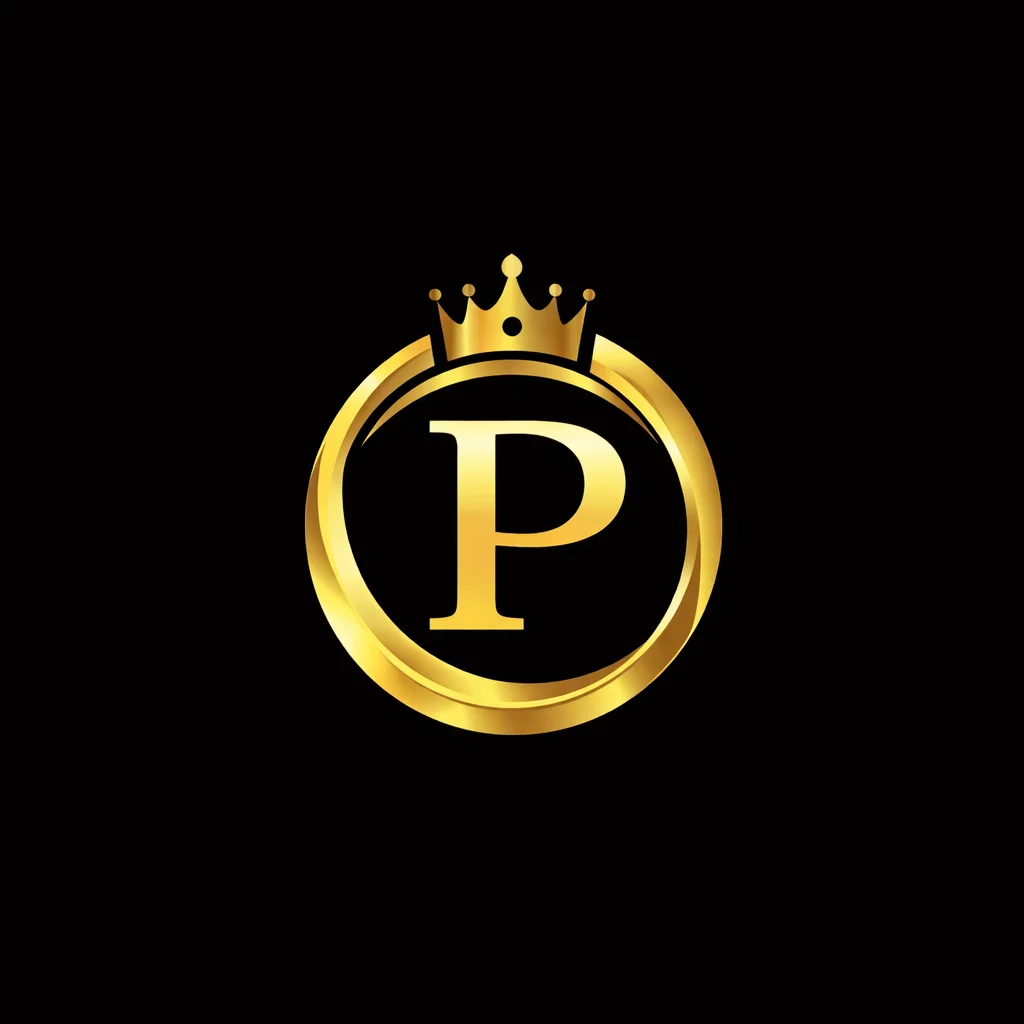
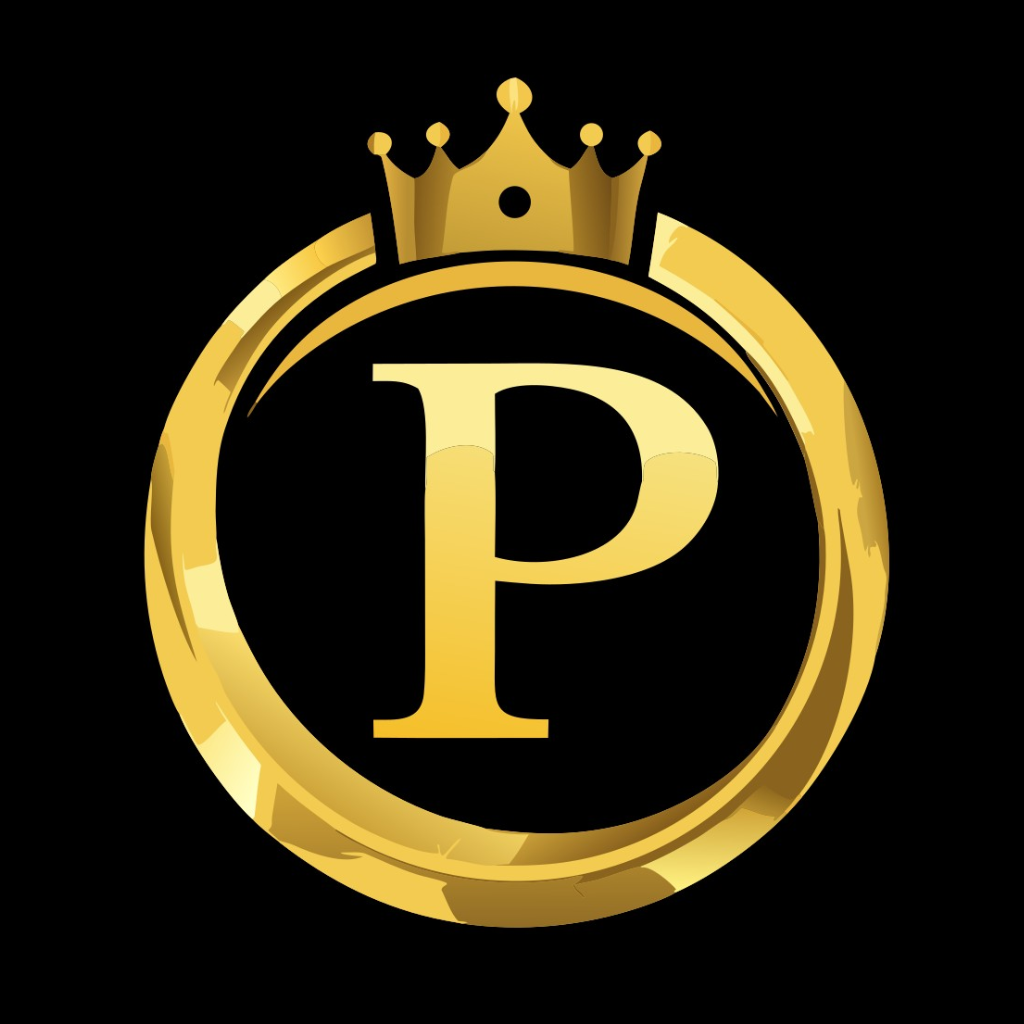
Normalize Presttige branding across frontend

Changed region(s): [[0.125, 0.0625, 0.875, 0.9062]]

diff --git a/index.html b/index.html
@@ -74,7 +74,7 @@
     }
 
     .topbar-inner {
-      min-height: 78px;
+      min-height: 92px;
       display: flex;
       align-items: center;
       justify-content: space-between;
@@ -84,12 +84,18 @@
     .brand {
       display: inline-flex;
       align-items: center;
+      justify-content: center;
+      width: 78px;
+      height: 78px;
+      flex: 0 0 78px;
     }
 
     .logo {
-      height: 36px;
-      width: auto;
+      width: 100%;
+      height: 100%;
       display: block;
+      object-fit: contain;
+      transform: none;
     }
 
     .nav {
@@ -471,12 +477,14 @@
       }
 
       .topbar-inner {
-        min-height: 70px;
+        min-height: 80px;
+        gap: 14px;
       }
 
       .brand {
-        font-size: 0.74rem;
-        letter-spacing: 0.28em;
+        width: 70px;
+        height: 70px;
+        flex-basis: 70px;
       }
 
       .hero {
@@ -537,7 +545,7 @@
   <header class="topbar">
     <div class="container topbar-inner">
       <a href="#top" class="brand">
-        <img src="assets/images/presttige-p-lettering-nofund.png" alt="Presttige" class="logo">
+        <img src="assets/images/presttige-p-ring.png" alt="Presttige" class="logo">
       </a>
 
       <nav class="nav">
@@ -546,7 +554,7 @@
         <a href="#membership">Membership</a>
       </nav>
 
-      <button class="btn-primary btn-inline-reset" type="button" onclick="openApply('header')">Request Access</button>
+      <button class="btn-primary btn-inline-reset" type="button" onclick="openApply('header')">Request Private Access</button>
     </div>
   </header>
 
@@ -557,7 +565,7 @@
           <div class="hero-copy">
             <h1>Private Access.<br>Redefined.</h1>
             <p class="hero-sub">Invitation-only aviation and lifestyle platform.</p>
-            <button class="btn-primary btn-inline-reset" type="button" onclick="openApply('hero')">Request Access</button>
+            <button class="btn-primary btn-inline-reset" type="button" onclick="openApply('hero')">Request Private Access</button>
           </div>
         </div>
       </section>
@@ -607,7 +615,7 @@
             <p>Applications are reviewed privately. Access is granted selectively.</p>
           </div>
 
-          <button class="btn-primary btn-inline-reset" type="button" onclick="openApply('membership')">Request Access</button>
+          <button class="btn-primary btn-inline-reset" type="button" onclick="openApply('membership')">Request Private Access</button>
         </div>
       </div>
     </section>

diff --git a/confirm.html b/confirm.html
@@ -54,7 +54,7 @@
     }
 
     .topbar-inner {
-      min-height: 78px;
+      min-height: 88px;
       display: flex;
       align-items: center;
       justify-content: space-between;
@@ -64,12 +64,20 @@
     .brand {
       display: inline-flex;
       align-items: center;
+      justify-content: center;
+      width: 82px;
+      height: 82px;
+      flex: 0 0 82px;
+      overflow: hidden;
     }
 
     .logo {
-      height: 36px;
-      width: auto;
+      width: 100%;
+      height: 100%;
       display: block;
+      object-fit: cover;
+      transform: scale(1.44);
+      transform-origin: center;
     }
 
     .hero {
@@ -288,7 +296,12 @@
 
     @media (max-width: 720px) {
       .container { width: min(100%, calc(100% - 20px)); }
-      .topbar-inner { min-height: 70px; }
+      .topbar-inner { min-height: 80px; }
+      .brand {
+        width: 72px;
+        height: 72px;
+        flex-basis: 72px;
+      }
       .hero { padding: 24px 0 36px; }
       .panel { padding: 32px 20px; border-radius: 24px; }
       .title { font-size: clamp(1.8rem, 9vw, 3rem); letter-spacing: 0.06em; }
@@ -308,7 +321,7 @@
   <header class="topbar">
     <div class="container topbar-inner">
       <a href="index.html" class="brand">
-        <img src="assets/images/presttige-p-lettering-nofund.png" alt="Presttige" class="logo">
+        <img src="assets/images/presttige-p-ring.png" alt="Presttige" class="logo">
       </a>
     </div>
   </header>

diff --git a/offer.html b/offer.html
@@ -62,15 +62,18 @@
     }
 
     .topbar-inner {
-      min-height: 76px;
+      min-height: 88px;
       display: flex;
       align-items: center;
     }
 
     .logo {
-      height: 34px;
-      width: auto;
+      width: 82px;
+      height: 82px;
       display: block;
+      object-fit: cover;
+      transform: scale(1.44);
+      transform-origin: center;
     }
 
     .hero {
@@ -275,6 +278,15 @@
         width: min(100%, calc(100% - 20px));
       }
 
+      .topbar-inner {
+        min-height: 80px;
+      }
+
+      .logo {
+        width: 72px;
+        height: 72px;
+      }
+
       .hero {
         padding: 26px 0 46px;
       }
@@ -289,7 +301,7 @@
 <body>
   <header class="topbar">
     <div class="container topbar-inner">
-      <img src="/assets/images/presttige-p-lettering-nofund.png" alt="Presttige" class="logo">
+      <img src="/assets/images/presttige-p-ring.png" alt="Presttige" class="logo">
     </div>
   </header>
 

diff --git a/cookies.html b/cookies.html
@@ -54,12 +54,20 @@
     .logo-link {
       display: inline-flex;
       align-items: center;
+      justify-content: center;
+      width: 82px;
+      height: 82px;
+      flex: 0 0 82px;
+      overflow: hidden;
     }
 
     .logo {
-      height: 34px;
-      width: auto;
+      width: 100%;
+      height: 100%;
       display: block;
+      object-fit: cover;
+      transform: scale(1.44);
+      transform-origin: center;
     }
 
     .back {
@@ -127,7 +135,7 @@
   <header class="container">
     <div class="topbar">
       <a href="index.html" class="logo-link">
-        <img src="assets/images/presttige-p-lettering-nofund.png" alt="Presttige" class="logo">
+        <img src="assets/images/presttige-p-ring.png" alt="Presttige" class="logo">
       </a>
       <a href="index.html" class="back">← Back</a>
     </div>

diff --git a/privacy.html b/privacy.html
@@ -54,12 +54,20 @@
     .logo-link {
       display: inline-flex;
       align-items: center;
+      justify-content: center;
+      width: 82px;
+      height: 82px;
+      flex: 0 0 82px;
+      overflow: hidden;
     }
 
     .logo {
-      height: 34px;
-      width: auto;
+      width: 100%;
+      height: 100%;
       display: block;
+      object-fit: cover;
+      transform: scale(1.44);
+      transform-origin: center;
     }
 
     .back {
@@ -127,7 +135,7 @@
   <header class="container">
     <div class="topbar">
       <a href="index.html" class="logo-link">
-        <img src="assets/images/presttige-p-lettering-nofund.png" alt="Presttige" class="logo">
+        <img src="assets/images/presttige-p-ring.png" alt="Presttige" class="logo">
       </a>
       <a href="index.html" class="back">← Back</a>
     </div>

diff --git a/terms.html b/terms.html
@@ -54,12 +54,20 @@
     .logo-link {
       display: inline-flex;
       align-items: center;
+      justify-content: center;
+      width: 82px;
+      height: 82px;
+      flex: 0 0 82px;
+      overflow: hidden;
     }
 
     .logo {
-      height: 34px;
-      width: auto;
+      width: 100%;
+      height: 100%;
       display: block;
+      object-fit: cover;
+      transform: scale(1.44);
+      transform-origin: center;
     }
 
     .back {
@@ -127,7 +135,7 @@
   <header class="container">
     <div class="topbar">
       <a href="index.html" class="logo-link">
-        <img src="assets/images/presttige-p-lettering-nofund.png" alt="Presttige" class="logo">
+        <img src="assets/images/presttige-p-ring.png" alt="Presttige" class="logo">
       </a>
       <a href="index.html" class="back">← Back</a>
     </div>

diff --git a/cancel.html b/cancel.html
@@ -22,7 +22,12 @@
     }
 
     .logo {
-      height: 32px;
+      width: 82px;
+      height: 82px;
+      display: block;
+      object-fit: cover;
+      transform: scale(1.44);
+      transform-origin: center;
     }
 
     .hero {
@@ -87,7 +92,7 @@
 <body>
 
   <div class="topbar">
-    <img src="assets/images/presttige-p-lettering-nofund.png" class="logo">
+    <img src="assets/images/presttige-p-ring.png" alt="Presttige" class="logo">
   </div>
 
   <div class="hero">
